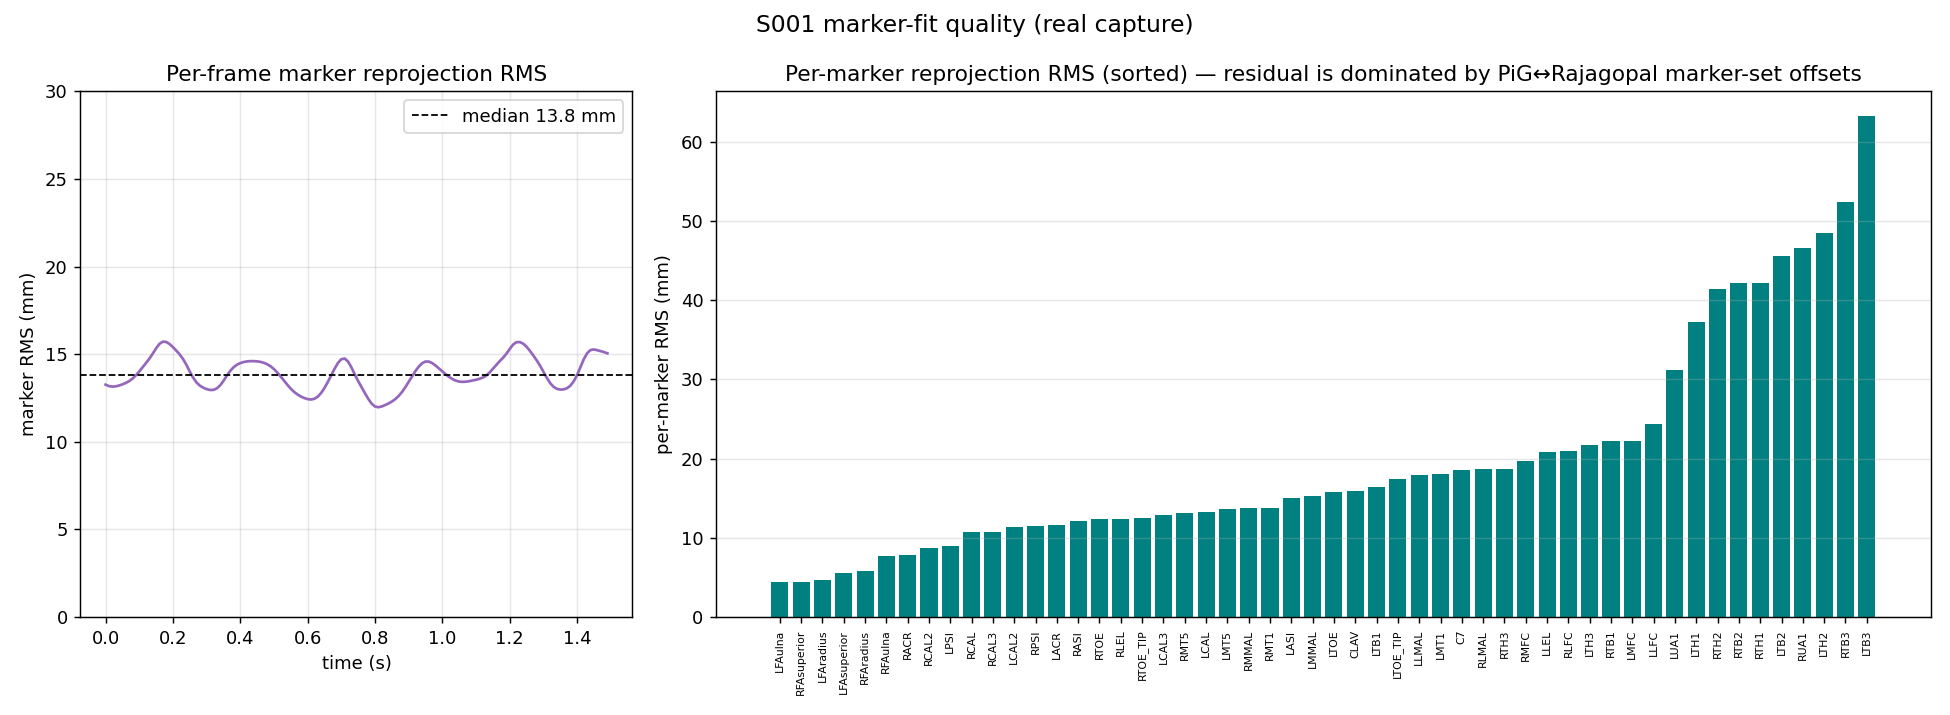
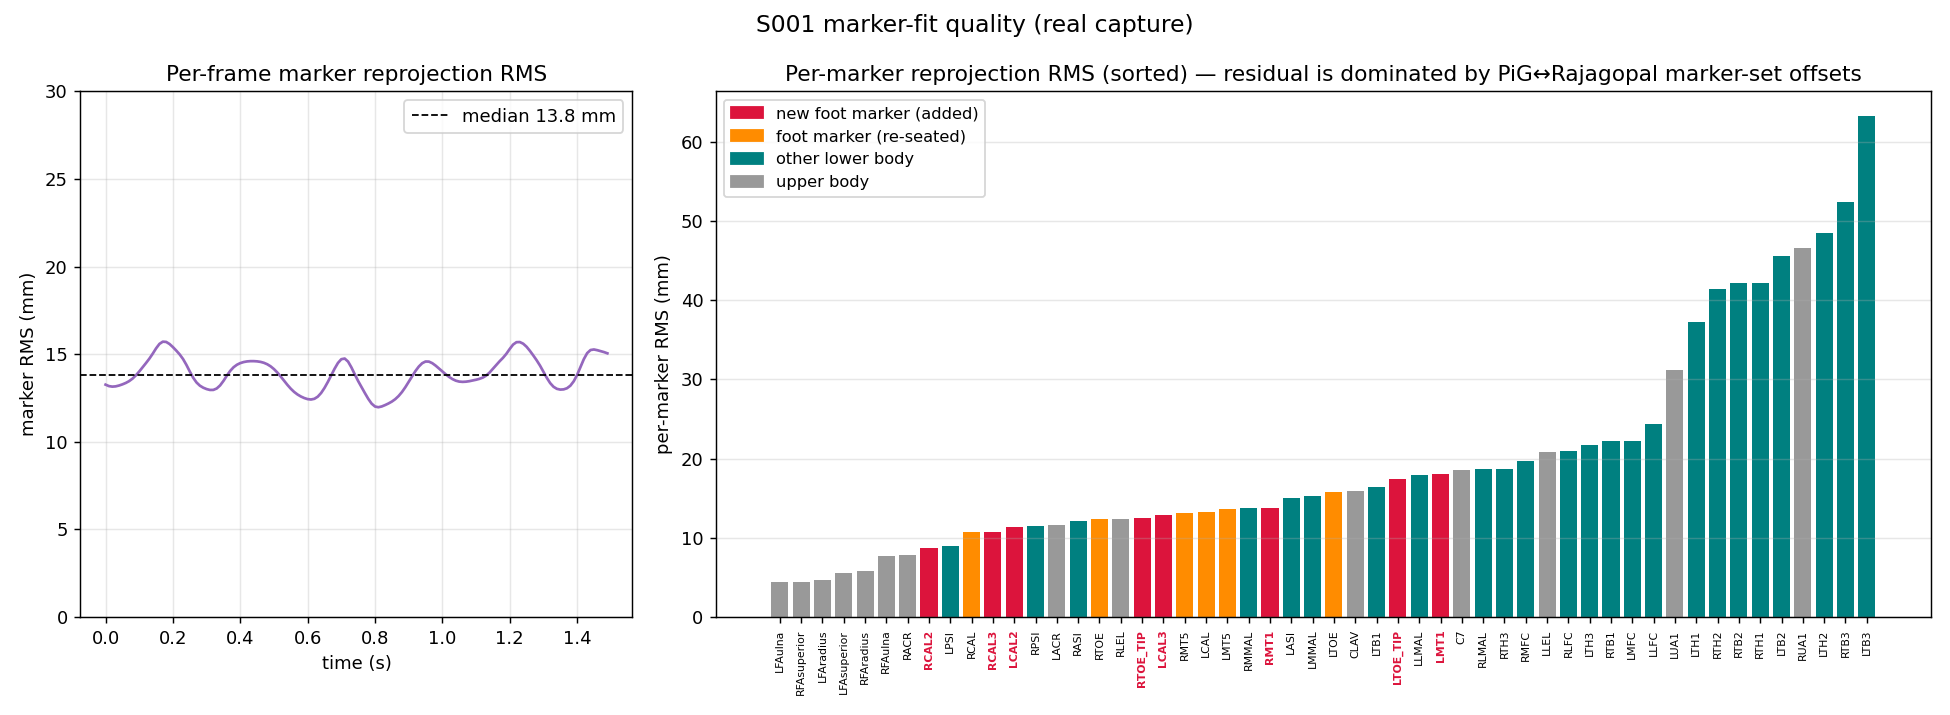
Add MTP/subtalar joints and highlight foot markers in figures

diff --git a/projects/biomech/tools/make_s001_ik_figures.py b/projects/biomech/tools/make_s001_ik_figures.py
@@ -68,13 +68,18 @@ DEVICE = "cuda"
 WIN_LEN = 150          # contiguous walk frames to reconstruct (~1.5 s at 100 Hz)
 CALIB_LEN = 60         # mid-window slice used to calibrate scales + offsets
 
-# Bilateral joint pairs for the gait-angle grid.
+# Bilateral joint pairs for the gait-angle grid (full enriched lower-body DOF set).
+# The MTP is now fit (unlocked once a toes/hallux marker was added); the subtalar is
+# intentionally left locked -- surface markers can't cleanly resolve inversion/eversion
+# (it rails at the anatomical limit if freed), so it is shown flat at 0 for honesty.
 JOINT_PAIRS = [
     ("hip flexion", "hip_flexion_r", "hip_flexion_l"),
     ("hip adduction", "hip_adduction_r", "hip_adduction_l"),
     ("hip rotation", "hip_rotation_r", "hip_rotation_l"),
     ("knee angle", "knee_angle_r", "knee_angle_l"),
     ("ankle angle", "ankle_angle_r", "ankle_angle_l"),
+    ("subtalar angle (locked)", "subtalar_angle_r", "subtalar_angle_l"),
+    ("MTP angle", "mtp_angle_r", "mtp_angle_l"),
 ]
 
 
@@ -222,7 +227,11 @@ def fig_gait_angles(R):
     fzr = R["grf"]["R"][:, 2] if "R" in R["grf"] else None
     fzl = R["grf"]["L"][:, 2] if "L" in R["grf"] else None
 
-    fig, axes = plt.subplots(2, 3, figsize=(14, 7.5), sharex=True)
+    n = len(JOINT_PAIRS)
+    ncols = 4
+    nrows = int(np.ceil((n + 1) / ncols))  # +1 panel for the legend
+    fig, axes = plt.subplots(nrows, ncols, figsize=(4.6 * ncols, 3.7 * nrows),
+                             sharex=True)
     axes = axes.ravel()
     for ax, (title, rn, ln) in zip(axes, JOINT_PAIRS):
         if fzr is not None:
@@ -235,19 +244,26 @@ def fig_gait_angles(R):
         ax.set_title(title)
         ax.set_ylabel("angle (deg)")
         ax.grid(alpha=0.3)
-    # last panel: legend + note
-    axes[-1].axis("off")
+    # legend panel right after the last joint; hide any trailing empties
+    legend_ax = axes[n]
+    legend_ax.axis("off")
     handles = [
         plt.Line2D([], [], color="tab:red", lw=2, label="right joint angle"),
         plt.Line2D([], [], color="tab:blue", lw=2, ls="--", label="left joint angle"),
         plt.Rectangle((0, 0), 1, 1, color="tab:red", alpha=0.10, label="right foot stance (measured GRF)"),
         plt.Rectangle((0, 0), 1, 1, color="tab:blue", alpha=0.10, label="left foot stance (measured GRF)"),
     ]
-    axes[-1].legend(handles=handles, loc="center", fontsize=11, frameon=False)
-    for ax in axes[3:6]:
-        ax.set_xlabel("time (s)")
+    legend_ax.legend(handles=handles, loc="center", fontsize=11, frameon=False)
+    for k in range(n + 1, len(axes)):
+        axes[k].axis("off")
+    # x-axis label on the lowest joint panel of each column (sharex hides the rest)
+    for c in range(ncols):
+        col = [i for i in range(n) if i % ncols == c]
+        if col:
+            axes[max(col)].set_xlabel("time (s)")
     fig.suptitle("S001 treadmill walk: IK-reconstructed lower-body joint angles\n"
-                 "(bilaterally symmetric, phase-locked to the independently measured GRF)",
+                 "(full enriched DOF set incl. MTP; subtalar locked; phase-locked to "
+                 "the independently measured GRF)",
                  fontsize=13)
     fig.tight_layout()
     fig.savefig(OUT / "09_s001_gait_angles.png", dpi=130)
@@ -267,6 +283,30 @@ def fig_marker_fit(R):
     pm_s = pm[ok][order]
     nm_s = [names[i] for i in np.where(ok)[0][order]]
 
+    # colour each bar by anatomical region, calling out the newly-added foot markers.
+    body_of = {m.name: m.body for m in R["spec"].markers}
+    foot_bodies = {"calcn_r", "calcn_l", "toes_r", "toes_l"}
+    lower_bodies = foot_bodies | {
+        "pelvis", "femur_r", "femur_l", "tibia_r", "tibia_l",
+        "talus_r", "talus_l", "patella_r", "patella_l",
+    }
+    new_foot = {
+        "RCAL2", "RCAL3", "RMT1", "RTOE_TIP",
+        "LCAL2", "LCAL3", "LMT1", "LTOE_TIP",
+    }
+
+    def _bar_color(name):
+        if name in new_foot:
+            return "crimson"
+        b = body_of.get(name)
+        if b in foot_bodies:
+            return "darkorange"
+        if b in lower_bodies:
+            return "teal"
+        return "0.6"
+
+    colors = [_bar_color(n) for n in nm_s]
+
     fig, (ax1, ax2) = plt.subplots(1, 2, figsize=(15, 5.5),
                                    gridspec_kw={"width_ratios": [1, 2.2]})
     ax1.plot(t, rms, color="tab:purple", lw=1.5)
@@ -280,13 +320,24 @@ def fig_marker_fit(R):
     ax1.grid(alpha=0.3)
 
     x = np.arange(len(pm_s))
-    ax2.bar(x, pm_s, color="teal")
+    ax2.bar(x, pm_s, color=colors)
     ax2.set_xticks(x)
     ax2.set_xticklabels(nm_s, rotation=90, fontsize=6)
+    for lbl, nm in zip(ax2.get_xticklabels(), nm_s):
+        if nm in new_foot:
+            lbl.set_color("crimson")
+            lbl.set_fontweight("bold")
     ax2.set_ylabel("per-marker RMS (mm)")
     ax2.set_title("Per-marker reprojection RMS (sorted) — "
                   "residual is dominated by PiG↔Rajagopal marker-set offsets")
     ax2.grid(alpha=0.3, axis="y")
+    region_handles = [
+        plt.Rectangle((0, 0), 1, 1, color="crimson", label="new foot marker (added)"),
+        plt.Rectangle((0, 0), 1, 1, color="darkorange", label="foot marker (re-seated)"),
+        plt.Rectangle((0, 0), 1, 1, color="teal", label="other lower body"),
+        plt.Rectangle((0, 0), 1, 1, color="0.6", label="upper body"),
+    ]
+    ax2.legend(handles=region_handles, loc="upper left", fontsize=9, frameon=True)
 
     fig.suptitle("S001 marker-fit quality (real capture)", fontsize=13)
     fig.tight_layout()
